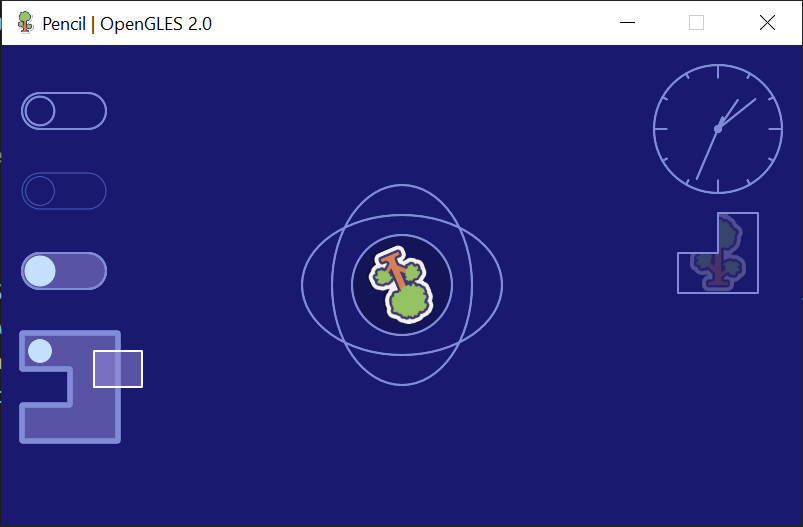
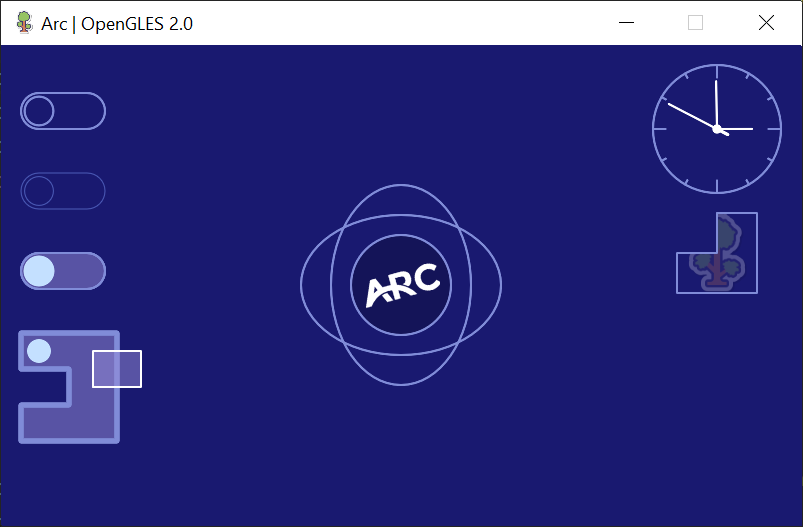
Update

diff --git a/App/ArcCanvas.cs b/App/ArcCanvas.cs
@@ -29,7 +29,6 @@ public static class ArcCanvas
     
         DrawRadioButtonFill(context, MARGIN, MARGIN + 28 + 160, 48, 36);
         DrawFill(context, MARGIN, MARGIN + 28 + 240, 48, 36);
-        // DrawImage(context, 800 - MARGIN - 80, MARGIN, 80, 80);
 
         
         DrawClock(context, 800 - MARGIN - 64, MARGIN + 64, 64);
@@ -39,25 +38,13 @@ public static class ArcCanvas
         return context.Renderer.Data;
     }
 
-    private static void DrawImage(IContext context, int l, int t, int w, int h)
-    {
-        context.SaveState();
-        var now = DateTime.Now;
-        var ms = now.Hour * RATES.h + now.Minute * RATES.m + now.Second * RATES.s + now.Millisecond;
-        var s = ms % RATES.h % RATES.m /RATES.s;
-        context.GetState().FillPaintTexture(3, new Rectangle(l, t, w, h), 0, 1f);
-        context.AddRectangle(l, t, w, h);
-        context.Fill();
-        context.RestoreState();
-    }
-
     private static void DrawRotatedImage(IContext context, int l, int t, int w, int h)
     {
         context.SaveState();
         var now = DateTime.Now;
         var ms = now.Hour * RATES.h + now.Minute * RATES.m + now.Second * RATES.s + now.Millisecond;
         var s = ms % RATES.h % RATES.m /RATES.s;
-        context.GetState().FillPaintTexture(3, new Rectangle(l, t, w, h), (float)(s / 60f * Math.PI * 2), 1f);
+        context.GetState().FillPaintTexture(4, new Rectangle(l, t, w, h), (float)(s / 10f * Math.PI * 2), 1f);
         context.AddRectangle(l, t, w, h);
         context.Fill();
         context.RestoreState();
@@ -211,9 +198,6 @@ public static class ArcCanvas
         ];
         context.AddEllipse(cx, cy, r, r);
         context.Stroke();
-        context.AddEllipse(cx, cy, 3, 3);
-        context.Fill();
-        context.Stroke();
         for (int i = 0; i < 12; i++)
         {
             if(i % 3 == 0)
@@ -234,6 +218,12 @@ public static class ArcCanvas
             context.AddCommand(new Command(CommandType.LineTo, cx + r * (float)Math.Sin(dir), cy + r * (float)Math.Cos(dir)));
             context.Stroke();
         }
+        context.RestoreState();
+
+        
+        context.SaveState();
+        context.GetState().FillPaint.InnerColor = new Color(255, 255, 255, 255);
+        context.GetState().StrokePaint.InnerColor = new Color(255, 255, 255, 255);
         foreach (var pointer in pointers)
         {
             context.AddCommand(new Command(CommandType.MoveTo, cx, cy));
@@ -248,6 +238,10 @@ public static class ArcCanvas
         var secondExtendDir = -pointers.Last().dir;
         var secondExtendLen = pointers.Last().len / 4.5f;
         context.AddCommand(new Command(CommandType.LineTo, cx + secondExtendLen * (float)Math.Sin(secondExtendDir), cy + secondExtendLen * (float)Math.Cos(secondExtendDir)));
+        context.Stroke();
+
+        context.AddEllipse(cx, cy, 3, 3);
+        context.Fill();
         context.Stroke();
 
         context.RestoreState();

diff --git a/Arc.Core/Common/Paint.cs b/Arc.Core/Common/Paint.cs
@@ -1,6 +1,6 @@
 namespace Arc.Core;
 
-public class Paint: ICloneable<Paint>
+public class Paint : ICloneable<Paint>
 {
     public Matrix2x3 Transform { get; internal set; } = Matrix2x3.Identity;
     public Extent Extent { get; internal set; }
@@ -18,7 +18,7 @@ public class Paint: ICloneable<Paint>
         this.OuterColor = new Color();
     }
 
-    public Paint Clone() => 
+    public Paint Clone() =>
         new Paint()
         {
             Transform = this.Transform,
@@ -37,13 +37,13 @@ public static class PaintExtension
     {
         var paint = state.FillPaint;
         var transform = paint.Transform * state.Transform;
-        transform.Translate(view.X, view.Y);
+        transform.Translate(-view.X, -view.Y);
         transform.Rotate(angle);
-        var nx = Math.Cos(angle) * view.Width / 2 - Math.Sin(angle) * view.Height / 2;
-        var ny = Math.Sin(angle) * view.Width / 2 + Math.Cos(angle) * view.Height / 2;
+        var nx = Math.Cos(-angle) * view.Width / 2 - Math.Sin(-angle) * view.Height / 2;
+        var ny = Math.Sin(-angle) * view.Width / 2 + Math.Cos(-angle) * view.Height / 2;
         var dx = nx - view.Width / 2;
         var dy = ny - view.Height / 2;
-        transform.Translate((float)dx, (float)dy);
+        transform.Translate(-(float)dx, -(float)dy);
 
         paint.Transform = transform;
         paint.Extent = new Extent(view.Width, view.Height);
@@ -51,5 +51,5 @@ public static class PaintExtension
         paint.InnerColor = new Color(1, 1, 1, alpha);
 
         state.FillPaint = paint;
-    } 
+    }
 }

diff --git a/Arc.Core/Common/Matrix2x3.cs b/Arc.Core/Common/Matrix2x3.cs
@@ -279,8 +279,8 @@ public struct Matrix2x3 : IEquatable<Matrix2x3>
         float num = MathF.Cos(angle);
         float num2 = MathF.Sin(angle);
         result.Row0.X = num;
-        result.Row0.Y = num2;
-        result.Row1.X = 0f - num2;
+        result.Row0.Y = -num2;
+        result.Row1.X = num2;
         result.Row1.Y = num;
         result.Row2.X = 0f;
         result.Row2.Y = 0f;
@@ -791,8 +791,8 @@ public static class Matrix2x3Extension
     public static void Rotate(ref this Matrix2x3 matrix, float angle)
     {
         var rotateMatrix = new Matrix2x3(
-            (float)Math.Cos(angle), (float)Math.Sin(angle),
-            -(float)Math.Sin(angle), (float)Math.Cos(angle), 
+            (float)Math.Cos(angle), -(float)Math.Sin(angle),
+            (float)Math.Sin(angle), (float)Math.Cos(angle), 
             0, 0
         );
         matrix *= rotateMatrix;

diff --git a/App/Window.cs b/App/Window.cs
@@ -12,7 +12,7 @@ namespace App
     public class Window : GLWindow
     {
         static int MARGIN = 20;
-        public Window(int width, int height) : base("Pencil", width, height)
+        public Window(int width, int height) : base("Arc", width, height)
         {
             this.ArcContext = new Context<Renderer>(new Renderer(this.Shader));
         }
@@ -36,6 +36,9 @@ namespace App
             );
             _textures.Add(
                 "icon",  new Texture(TextureUnit.Texture0, TextureMinFilter.Linear).With(x => x.LoadImage(@"Resources/Images/icon.png"))
+            );
+            _textures.Add(
+                "arc",  new Texture(TextureUnit.Texture0, TextureMinFilter.Linear).With(x => x.LoadImage(@"Resources/Images/arc.png"))
             );
 
             GL.ActiveTexture(TextureUnit.Texture0);

diff --git a/Arc.ES20/RenderSurfaceExtension.cs b/Arc.ES20/RenderSurfaceExtension.cs
@@ -58,6 +58,11 @@ public static class RenderSurfaceExtension
                         "aFrag",
                         fillFragUniform.Values
                     );
+                    renderer.Shader.Uniform1("aTexture", 0);
+                    if(fillFragUniform.Type is Core.FragUniformType.FillTexture)
+                    {
+                        GL.BindTexture(TextureTarget.Texture2D, call.Texture);
+                    }
 
                     GL.StencilFunc(StencilFunction.Notequal, 0x0, 0xff);
                     GL.StencilOp(StencilOp.Zero, StencilOp.Zero, StencilOp.Zero);

diff --git a/Arc.ES20/GLWindow.cs b/Arc.ES20/GLWindow.cs
@@ -6,7 +6,8 @@ using OpenTK.Windowing.Desktop;
 namespace Arc.ES20;
 public class GLWindow : GameWindow
 {
-    public GLWindow(string title, int? width = null, int? height = null, string? iconPath = null) : this(title, width ?? 720, height ?? 720, iconPath ?? "Resources/Images/Icon.png")
+    public GLWindow(string title, int? width = null, int? height = null, string? iconPath = null)
+    : this(title, width ?? 720, height ?? 720, iconPath ?? "Resources/Images/Icon.png")
     { }
 
     public Shader Shader { get; init; }

diff --git a/Arc.Core/Common/Matrix2.cs b/Arc.Core/Common/Matrix2.cs
@@ -259,8 +259,8 @@ public struct Matrix2 : IEquatable<Matrix2>
         float num = MathF.Cos(angle);
         float num2 = MathF.Sin(angle);
         result.Row0.X = num;
-        result.Row0.Y = num2;
-        result.Row1.X = 0f - num2;
+        result.Row0.Y = -num2;
+        result.Row1.X = num2;
         result.Row1.Y = num;
     }
 

diff --git a/Arc.ES20/Renderer.cs b/Arc.ES20/Renderer.cs
@@ -159,7 +159,7 @@ public static class RendererExtension
         new Matrix3x4(
             matrix.M11, matrix.M12, 0, 0,
             matrix.M21, matrix.M22, 0, 0,
-            -matrix.M31, -matrix.M32, 0, 0
+            matrix.M31, matrix.M32, 0, 0
         );
 
 }

diff --git a/README.md b/README.md
@@ -1,3 +1,3 @@
-# Pencil.Net
+# Arc.Net
 
 <img src="https://github.com/XionWin/Arc.Net/blob/main/_Attachment/Screen_Short.png" width="803" height="527">
